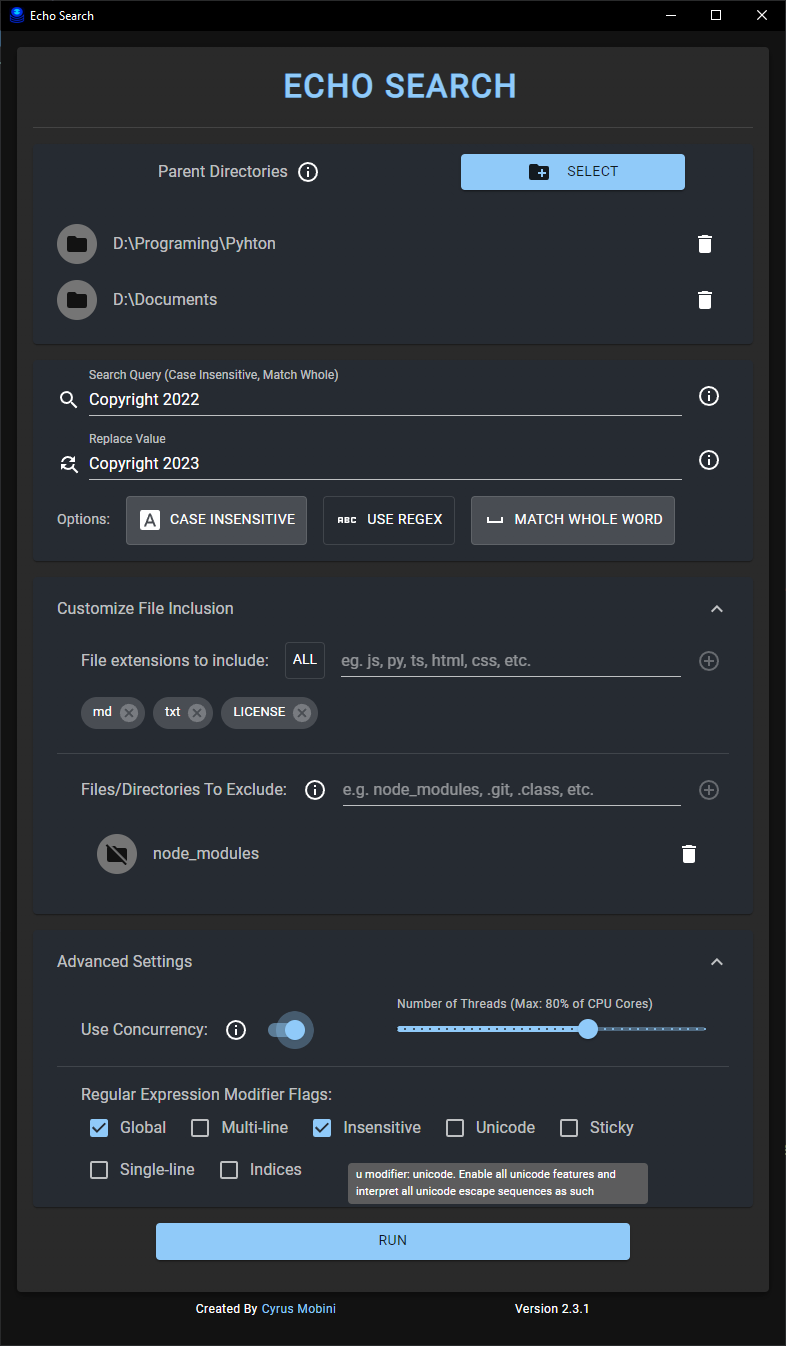
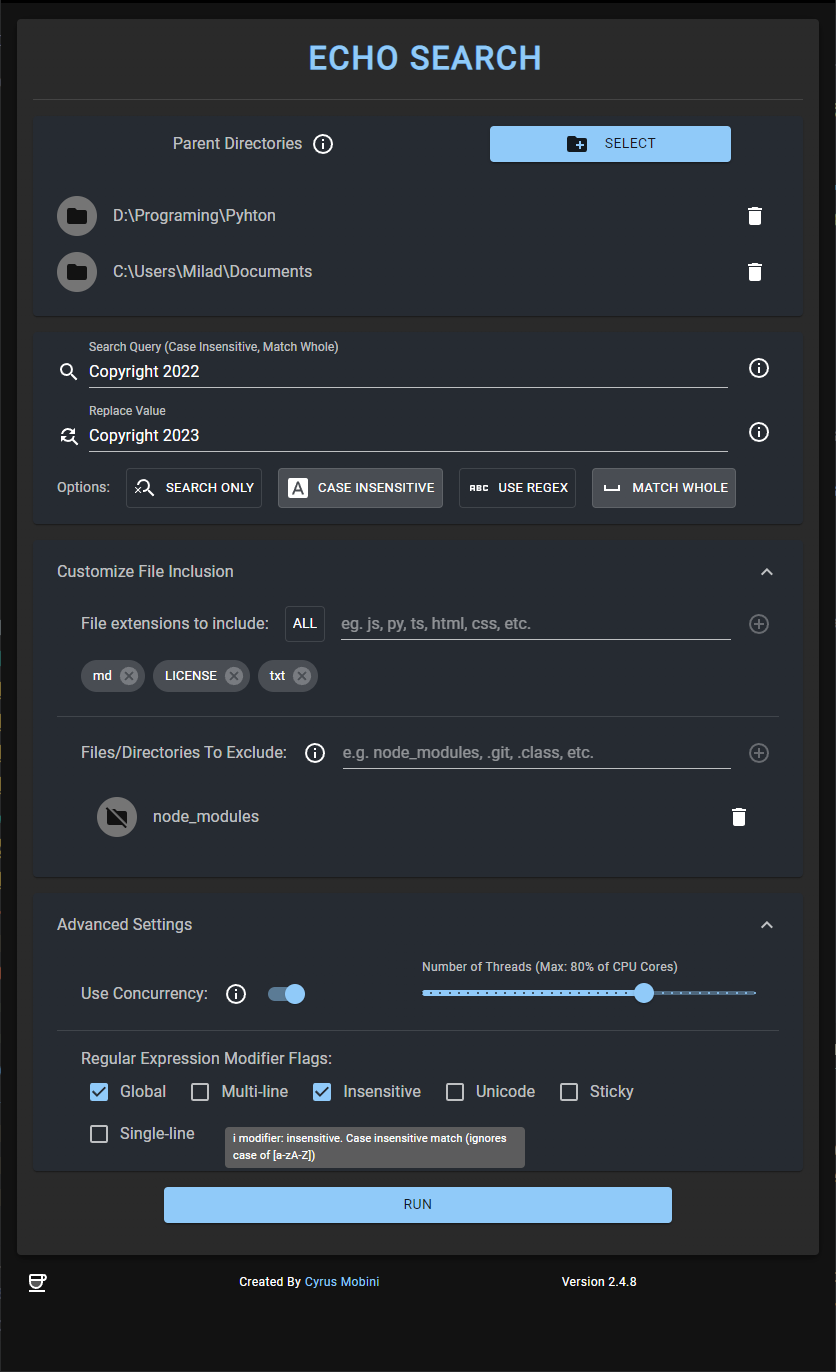
Enhanced documentation, tooltips and screenshots

diff --git a/src/Client/Components/MultiThreading.js b/src/Client/Components/MultiThreading.js
@@ -23,9 +23,9 @@ const MultiThreadingTooltip = styled(({ className, ...props }) => (
         Higher number of threads does NOT mean faster results. Concurrency
         depends on different factors such as the <em>number of threads</em>,
         <em> power of each core</em>, and the
-        <em> amount of available memory</em>. Note that concurrency uses
-        considerably more amount memory. Please be sure not overload your system
-        memory. With Concurrency you might feel some asynchronously or miss some
+        <em> amount of the available memory</em>. Note that concurrency uses
+        considerably more amount of memory. Please be sure not overload your system
+        memory. With Concurrency you might feel some asynchronous behavior or miss some
         messages. <br></br> You're not allowed to use more than <b>80%</b> of
         your CPU cores.<br></br> We recommend testing with different number of
         threads to find the best performance.

diff --git a/src/Client/Components/ExcludeSelector.js b/src/Client/Components/ExcludeSelector.js
@@ -54,7 +54,7 @@ function ExcludeSelector({ form }) {
         <Box sx={{ width: "100%", display: "flex", alignItems: "center" }}>
           <Typography variant="body1">Files/Directories To Exclude:</Typography>
           <Tooltip
-            title="Path can complete or partial match. It can also be used to exclude specific file extensions."
+            title="Paths can be complete or partial match. It can also be used to exclude specific file extensions."
             sx={{ ml: 1 }}
           >
             <IconButton>

diff --git a/README.md b/README.md
@@ -1,59 +1,101 @@
 # Eco-Search
+
 [![release](https://img.shields.io/github/v/release/cyrus2281/Echo-Search?color=00ff00)](https://github.com/cyrus2281/Echo-Search/releases)
 [![version](https://img.shields.io/github/package-json/v/cyrus2281/Echo-Search)](https://github.com/cyrus2281/Echo-Search)
 [![License](https://img.shields.io/github/license/cyrus2281/echo-search)](https://github.com/cyrus2281/Echo-Search/blob/main/LICENSE)
 [![react](https://img.shields.io/github/package-json/dependency-version/cyrus2281/Echo-Search/react?logo=react&color=lightblue)](https://reactjs.org/)
 [![electron](https://img.shields.io/github/package-json/dependency-version/cyrus2281/Echo-Search/dev/electron?logo=electron&color=lightblue&logoColor=lightblue)](https://www.electronjs.org/)
+[![buyMeACoffee](https://img.shields.io/badge/BuyMeACoffee-cyrus2281-yellow?logo=buymeacoffee)](https://www.buymeacoffee.com/cyrus2281)
 <br>
 
-This application will crawl recursively through the given parent directory and will look for the given string/regular expression in all text files and replace it with the given string.
+Echo Search is a feature-rich and powerful application that allows you to search for a specific text or regular expression query in the content of files within a directory and its subdirectories. It also offers the ability to replace the found text with another string of your choice. With its wide range of options and capabilities, it is an ideal solution for software developers, data analysts, and anyone looking for an efficient way to search and replace text in files.
 
-You can select multiple parent directories, mark search as case insensitive or matching whole words, provide a multi-line search query, include specific files types, exclude paths or file types, and even configure the regex search modifier flags. You can use concurrency to run the application on multiple threads.
+## Key Features
 
-You get a live report on the search happening in the provided console in the app and you can open each file with desktop's default app or in the respective folder.
+- Search for text or regular expressions: Echo Search supports both simple text queries and complex regular expression queries.
 
-This app is only for text based files and can NOT be used with files such as pdf, doc, excel, etc.
+- Multi-line queries: You can search for text across multiple lines in a single file.
 
-The app is written with Electron (Node) for the backend, and React (JavaScript) for the frontend.
+- Search only mode: If you just want to search for files that contain a specific query, Echo Search has a search only mode that allows you to do just that, without making any replacements.
 
-<br>
+- Case sensitivity: You can choose whether the search should be case sensitive or not.
 
-# Installation
+- Whole word match or partial match: You can choose to search for the entire word only, or allow for partial matches.
 
-1. Download the `latest` release for your operating system from [Releases](https://github.com/cyrus2281/Echo-Search/releases).
+- Multiple parent directories: You can select multiple parent directories to search in, making it easy to search across a wide range of files.
 
-   - Open the latest release
-   - From `Assets` download the version for your operating system
-     - Windows: echo-search-X.X.X.WIN.Setup.exe
-     - MacOS: echo-search-darwin-x64-X.X.X.zip
-     - Linux: clone the code and run `npm i && npm run make:linux`
+- File extension options: You can choose to search in all file types, or select specific file extensions to focus on. You can also exclude specific file extensions if desired.
 
-2. Install the app by running the file.
-3. a shortcut should appear on your desktop/app bar.
+- Concurrent processing: Echo Search supports concurrent processing, allowing you to run the application in multiple threads for faster results. You can select up to 80% of the available cores.
+
+- Regular expression flags: Echo Search supports a range of regular expression flags, allowing you to customize the search even further.
+
+- Live feedback console: Echo Search provides a console with live feedback on the progress of the search, making it easy to monitor its progress. You can also clear the console at any time.
+
+- Direct file and directory access: You can open the updated files or their directories with the file pre-selected directly from the console.
+
+***Note:** This app is only for text based files and can NOT be used with files such as pdf, doc, excel, etc.*
+
+<hr>
+
+## Installation
+
+### Windows
+
+1. Open the `latest` release from [Releases](https://github.com/cyrus2281/Echo-Search/releases).
+2. From `Assets` download the `exe` version.
+   `echo-search-X.X.X.WIN.Setup.exe`
+3. Install the app by running (double clicking) the file.
+
+### MacOS
+
+1. Open the `latest` release from [Releases](https://github.com/cyrus2281/Echo-Search/releases).
+2. From `Assets` download the `zip` version.
+   `echo-search-darwin-x64-X.X.X.zip`
+3. After downloading the zip, double click on it to extract the file.
+4. Right click on the file and select open. You might see a warning that the developer is unknown, accept and open the app (this is because the app is not registered under the apple's paid subscription).
+5. Drag and move the app to the application folder.
+
+### Linux
+
+1. Open the `latest` release from [Releases](https://github.com/cyrus2281/Echo-Search/releases).
+2. From `Assets` download the `source code`
+3. unzip the code
+4. from within the repository run: `npm i && npm run make:linux`
+5. the app will be built in the `out` directory (exact path will be visible in the terminal)
 
 That's it. Enjoy the app.
 
-# Demo of Application
-
-### Echo Search Empty
-
-<img src="./images/baseapp.png" />
 <hr>
 
-### Echo Search Filled
+Echo Search is a versatile and efficient tool for searching and replacing text in files. With its extensive range of options and capabilities, it is suitable for a wide range of use cases, whether you are a software developer looking for a quick way to update code, or a data analyst searching for specific information in large datasets. Try Echo Search today and see how it can make your life easier.
 
-<img src="./images/filled.png" />
-<hr>
+## Application Screenshots
 
-### Echo Search Sample output
+<div style="display:flex; gap:2%;">
+  <img src="./images/baseapp.png" width="49%" />
+  <img src="./images/options.png" width="49%" />
+</div>
+<br>
+<div style="display:flex; gap:2%;">
+  <img src="./images/filled.png" width="49%" />
+  <img src="./images/running.png"  width="49%" />
+</div>
 
-<img src="./images/running.png" />
-<hr>
+## License
+
+The app is written using Electron (NodeJS) and React.
+
+Echo Search is licensed under the [BSD 3-Clause](./LICENSE).
 
 ## Java
 
 This app was originally written in Java. the source code for the legacy version is still available in the `Java` directory.
 
 NOTICE: this version is no longer supported the the latest release is the recommend version to use.
+
+<br>
+
+<hr>
 
 Copyright(c) Cyrus Mobini 2023
